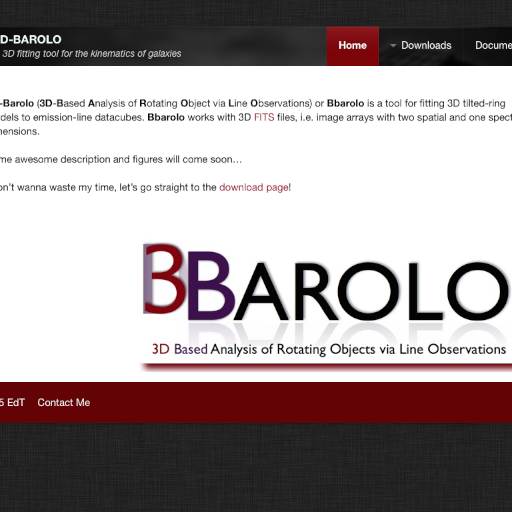
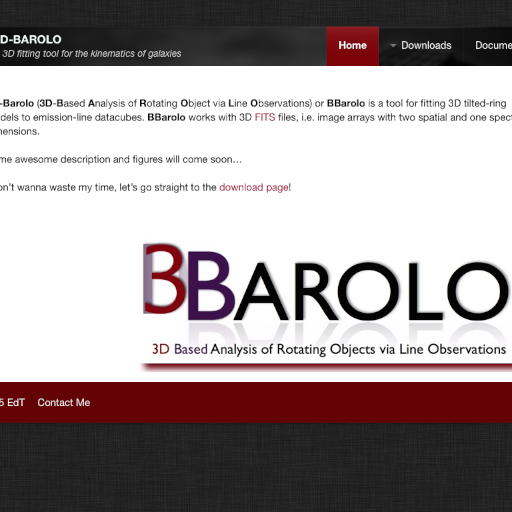
Bbarolo pages

Changed region(s): [[0.2812, 0.1875, 1.0, 0.25]]

diff --git a/documentation/index.html b/documentation/index.html
@@ -12,7 +12,7 @@
 		<meta name="generator" content="RapidWeaver" />
 		
 		<meta http-equiv="X-UA-Compatible" content="IE=edge,chrome=1">
-		<title>Barolo - Documentation</title>
+		<title>BBarolo - Documentation</title>
 		<link rel="stylesheet" type="text/css" media="all" href="../rw_common/themes/reason/consolidated.css" />
 		
 		
@@ -58,7 +58,7 @@
 				</div>
 				<section id="container" class="theme">
 					<section id="content" class="theme">
-						<div id="push">This page is still in progress&hellip;<br /><br />For a full description of the algorithm. please refer to <a href="http://arxiv.org/abs/1505.07834" rel="">this paper</a>.<br /><br />Running <strong>Bbarolo</strong> through the GUI allows the user to not learn the annoying list of available parameters: the user has just to fill in the required fields in the GUI and this will create a text file with the correct parameters and launch Bbarolo.<br />However, if you experience any issues with the GUI or you prefer to use the command line tool, in this page you can find a list with the default values and a short description of the main available parameters.<br /><br /><br /><strong>Bbarolo </strong>can be run by typing in the shell: <code>Bbarolo -p paramfile</code>. The <code>paramfile</code> is a text file with a list of all the needed parameters, in the form:<br /><br />PARNAME1	<span style="font:13px Menlo-Regular; color:#191919;">&nbsp </span>VALUE1<br />PARNAME2	<span style="font:13px Menlo-Regular; color:#191919;">&nbsp </span>VALUE2<br />&hellip;.<br />  <br />An example of parameter file can be downloaded <a href="../resources/param.par" rel="">here</a>.  Full runnable examples can be found in <a href="../downloads/examples/" rel="" title="Examples">this page</a>.<br /><br /><br /><br /><h3>General parameters</h3><br /><strong>FITSFILE</strong> [none]: The name of the input FITS file. This is a <u>mandatory</u> parameter.<br /><br /><strong>VERBOSE</strong> [true]: It enables all the output messages.<br /><br /><strong>BEAMFWHM</strong> [none]: The FWHM of the beam in arcsec. This parameter should be not used if the header of the input file is complete. In any case, the BEAMFWHM is ignored if Bbarolo finds the keywords BMAJ, BMIN and BPA in the header.<br /><br /><br /><br /><h3>3D Fitting parameters</h3><br /><strong>GALFIT</strong> [true]: This flag enables the 3D fitting algorithm.<br /><br /><strong>NRADII</strong> [none]: The number of rings to be used and fitted. If not specified, Bbarolo will try to estimate it.<br /><br /><strong>RADSEP</strong> [none]: The separation between rings in arcsec. If N radii have been requested, the rings will be placed at [RADSEP/4, RADSEP, 2*RADSEP,..., N*RADSEP]. If not specified, Bbarolo will assume the FWHM of the beam major axis as radius separation. <br /><br /><strong>RADII</strong> [none]: This parameter can be used as an alternative to NRADII and RADSEP. The user can provide a text file with a list of rings in arcsec, in the format "file(filename.txt,a,b)", where a is the column number (starting from 1), and b the starting row (all rows if omitted).<br /><br /><strong>XPOS</strong> [none]: Global initial value for the x-center of rings. Accepted format are in pixels (starting from 0, unlike GIPSY) or in WCS coordinates in the format +000.0000d (degrees) or +00:00:00.00 (sexagesimal). If not specified, Bbarolo will try to estimate it.<br /><br /><strong>YPOS</strong> [none]: Like XPOS, but for the y-axis.<br /><br /><strong>VSYS</strong> [none]: Global initial value for the systemic velocity in km/s. A text file with a list of values is also accepted (see RADII). If not specified, Bbarolo will try to estimate it from the global line profile.<br /><br /><strong>VROT</strong> [none]: Global initial value for the rotation velocity in km/s. A text file with a list of values is also accepted (see RADII). If not specified, Bbarolo will try to estimate it.<br /><br /><strong>VDISP</strong> [8]: Global initial value for the velocity dispersion in km/s. A text file with a list of values is also accepted (see RADII). If not specified, Bbarolo will assume 8 km/s.<br /><br /><strong>INC</strong> [none]: Global initial value for the inclination in degrees. A text file with a list of values is also accepted (see RADII). If not specified, Bbarolo will try to estimate it from the column density map.<br /><br /><strong>PA</strong> [none]: Global initial value for the position angle in degrees [0:360], measured from anti-clockwise form the North direction. A text file with a list of values is also accepted (see RADII). If not specified, Bbarolo will try to estimate it from the velocity field.<br /><br /><strong>Z0</strong> [none]: Global initial value for scale-height of the disc in arcsec. A text file with a list of values is also accepted (see RADII). If not specified, Bbarolo will assume 150 pc after having estimated the distance from the VSYS (or you can set the DISTANCE parameter).<br /><br /><strong>DENS</strong> [1]: Gas surface density in units of E20 atoms/cm2. A text file with a list of values is also accepted (see RADII). This parameter is not relevant if a normalization is used. <br /><br /><strong>DELTAINC</strong> [5]: This parameter fixes the boundaries of parameter space at [INC-DELTAINC, INC+DELTAINC]. It is not advisable to let the inclination varying over the whole range [0,90].<br /><br /><strong>DELTAPA</strong> [15]: This parameter fixes the boundaries of parameter space at [PA-DELTAINC, PA+DELTAPA]. It is not advisable to let the position angle varying over the whole range [0,360].<br /><br /><strong>FREE</strong> [VROT VDISP INC PA]: The list of parameters to fit.<br /><br /><strong>FTYPE</strong> [2]: Function to be minimized. Accepted values are: 1 (chi-squared), 2 (|mod-obs|, default), 3 (|mod-obs|/(mod+obs)).<br /><br /><strong>WFUNC</strong> [2]: Weighting function to be used in the fit. Accepted values are: 0 (uniform weight), 1 (|cos(&theta;)|) and 2 (cos(&theta;)^2, default), where &theta; is the azimuthal angle (=0 for galaxy major axis).<br /><br /><strong>LTYPE</strong> [1]: Layer type along z. Accepted values are: 1 (gaussian, default), 2 (sech2), 3 (exponential), 4 (Lorentzian), 5 (box).<br /><br /><strong>SIDE</strong> [B]: Side of the galaxy to be fitted. Accepted values are: A (approaching), R (receding), B (both, default)<br /><br /><strong>MASK</strong> [SMOOTH]: This parameter tells the code how to build the mask for constraining the regions of true galaxy emission. Accepted values are SMOOTH, SEARCH, THRESHOLD, NONE. If SMOOTH, the input cube is smoothed by a factor FACTOR (default=2) and mask built from the region at S/N>BLANKCUT (default=3). If SEARCH, the source finding will be used to determine the mask. The source finding parameters can be set to change the default values. If THRESHOLD, the cut threshold must be specified through the THRESHOLD parameter in the same flux units of the input datacube. If NONE, all regions with flux>0 will be used.<br /><br /><strong>NORM</strong> [LOCAL]: Type of normalization of the model. Accepted values are: LOCAL (pixel by pixel) or AZIM (azimuthal) or NONE.<br /><br /><strong>TWOSTAGE</strong> [true]: This flag enables the second fitting stage after parameter regularization. This is relevant just if the user wishes to fit parameters other than VROT and VDISP. The inclination and the position angle are regularized by polynomials of degree POLYN or a Bezier function (default), while the other parameters by constant functions.<br /><br /><strong>POLYN</strong> [-1]: Degree of polynomials for the regularization of inclination and position angles. -1 enables the Bezier function.<br /> <br /><strong>BWEIGHT</strong> [2]: Exponent of weight for blank pixels. See Sec. 2.4 of reference paper for details.<br /><br /><strong>FLAGERRORS</strong> [false]: Whether the code has to estimate the errors. This usually heavily slows down the run.<br /><br /><strong>STARTRAD</strong> [0]: This parameter allow the user to start the fit from the given ring.</div>
+						<div id="push">This page is still in progress&hellip;<br /><br />For a full description of the algorithm. please refer to <a href="http://arxiv.org/abs/1505.07834" rel="">this paper</a>.<br /><br />Running <strong>BBarolo</strong> through the GUI allows the user to not learn the annoying list of available parameters: the user has just to fill in the required fields in the GUI and this will create a text file with the correct parameters and launch BBarolo.<br />However, if you experience any issues with the GUI or you prefer to use the command line tool, in this page you can find a list with the default values and a short description of the main available parameters.<br /><br /><br /><strong>BBarolo </strong>can be run by typing in the shell: <code>Bbarolo -p paramfile</code>. The <code>paramfile</code> is a text file with a list of all the needed parameters, in the form:<br /><br />PARNAME1	<span style="font:13px Menlo-Regular; color:#191919;">&nbsp </span>VALUE1<br />PARNAME2	<span style="font:13px Menlo-Regular; color:#191919;">&nbsp </span>VALUE2<br />&hellip;.<br />  <br />An example of parameter file can be downloaded <a href="../resources/param.par" rel="">here</a>.  Full runnable examples can be found in <a href="../downloads/examples/" rel="" title="Examples">this page</a>.<br /><br /><br /><br /><h3>General parameters</h3><br /><strong>FITSFILE</strong> [none]: The name of the input FITS file. This is a <u>mandatory</u> parameter.<br /><br /><strong>VERBOSE</strong> [true]: It enables all the output messages.<br /><br /><strong>BEAMFWHM</strong> [none]: The FWHM of the beam in arcsec. This parameter should be not used if the header of the input file is complete. In any case, the BEAMFWHM is ignored if BBBBaroloarolo finds the keywords BMAJ, BMIN and BPA in the header.<br /><br /><br /><br /><h3>3D Fitting parameters</h3><br /><strong>GALFIT</strong> [true]: This flag enables the 3D fitting algorithm.<br /><br /><strong>NRADII</strong> [none]: The number of rings to be used and fitted. If not specified, BBarolo will try to estimate it.<br /><br /><strong>RADSEP</strong> [none]: The separation between rings in arcsec. If N radii have been requested, the rings will be placed at [RADSEP/4, RADSEP, 2*RADSEP,..., N*RADSEP]. If not specified, BBarolo will assume the FWHM of the beam major axis as radius separation. <br /><br /><strong>RADII</strong> [none]: This parameter can be used as an alternative to NRADII and RADSEP. The user can provide a text file with a list of rings in arcsec, in the format "file(filename.txt,a,b)", where a is the column number (starting from 1), and b the starting row (all rows if omitted).<br /><br /><strong>XPOS</strong> [none]: Global initial value for the x-center of rings. Accepted format are in pixels (starting from 0, unlike GIPSY) or in WCS coordinates in the format +000.0000d (degrees) or +00:00:00.00 (sexagesimal). If not specified, BBarolo will try to estimate it.<br /><br /><strong>YPOS</strong> [none]: Like XPOS, but for the y-axis.<br /><br /><strong>VSYS</strong> [none]: Global initial value for the systemic velocity in km/s. A text file with a list of values is also accepted (see RADII). If not specified, BBarolo will try to estimate it from the global line profile.<br /><br /><strong>VROT</strong> [none]: Global initial value for the rotation velocity in km/s. A text file with a list of values is also accepted (see RADII). If not specified, BBarolo will try to estimate it.<br /><br /><strong>VDISP</strong> [8]: Global initial value for the velocity dispersion in km/s. A text file with a list of values is also accepted (see RADII). If not specified, BBarolo will assume 8 km/s.<br /><br /><strong>INC</strong> [none]: Global initial value for the inclination in degrees. A text file with a list of values is also accepted (see RADII). If not specified, BBarolo will try to estimate it from the column density map.<br /><br /><strong>PA</strong> [none]: Global initial value for the position angle in degrees [0:360], measured from anti-clockwise form the North direction. A text file with a list of values is also accepted (see RADII). If not specified, BBarolo will try to estimate it from the velocity field.<br /><br /><strong>Z0</strong> [none]: Global initial value for scale-height of the disc in arcsec. A text file with a list of values is also accepted (see RADII). If not specified, BBarolo will assume 150 pc after having estimated the distance from the VSYS (or you can set the DISTANCE parameter).<br /><br /><strong>DENS</strong> [1]: Gas surface density in units of E20 atoms/cm2. A text file with a list of values is also accepted (see RADII). This parameter is not relevant if a normalization is used. <br /><br /><strong>DELTAINC</strong> [5]: This parameter fixes the boundaries of parameter space at [INC-DELTAINC, INC+DELTAINC]. It is not advisable to let the inclination varying over the whole range [0,90].<br /><br /><strong>DELTAPA</strong> [15]: This parameter fixes the boundaries of parameter space at [PA-DELTAINC, PA+DELTAPA]. It is not advisable to let the position angle varying over the whole range [0,360].<br /><br /><strong>FREE</strong> [VROT VDISP INC PA]: The list of parameters to fit.<br /><br /><strong>FTYPE</strong> [2]: Function to be minimized. Accepted values are: 1 (chi-squared), 2 (|mod-obs|, default), 3 (|mod-obs|/(mod+obs)).<br /><br /><strong>WFUNC</strong> [2]: Weighting function to be used in the fit. Accepted values are: 0 (uniform weight), 1 (|cos(&theta;)|) and 2 (cos(&theta;)^2, default), where &theta; is the azimuthal angle (=0 for galaxy major axis).<br /><br /><strong>LTYPE</strong> [1]: Layer type along z. Accepted values are: 1 (gaussian, default), 2 (sech2), 3 (exponential), 4 (Lorentzian), 5 (box).<br /><br /><strong>SIDE</strong> [B]: Side of the galaxy to be fitted. Accepted values are: A (approaching), R (receding), B (both, default)<br /><br /><strong>MASK</strong> [SMOOTH]: This parameter tells the code how to build the mask for constraining the regions of true galaxy emission. Accepted values are SMOOTH, SEARCH, THRESHOLD, NONE. If SMOOTH, the input cube is smoothed by a factor FACTOR (default=2) and mask built from the region at S/N>BLANKCUT (default=3). If SEARCH, the source finding will be used to determine the mask. The source finding parameters can be set to change the default values. If THRESHOLD, the cut threshold must be specified through the THRESHOLD parameter in the same flux units of the input datacube. If NONE, all regions with flux>0 will be used.<br /><br /><strong>NORM</strong> [LOCAL]: Type of normalization of the model. Accepted values are: LOCAL (pixel by pixel) or AZIM (azimuthal) or NONE.<br /><br /><strong>TWOSTAGE</strong> [true]: This flag enables the second fitting stage after parameter regularization. This is relevant just if the user wishes to fit parameters other than VROT and VDISP. The inclination and the position angle are regularized by polynomials of degree POLYN or a Bezier function (default), while the other parameters by constant functions.<br /><br /><strong>POLYN</strong> [-1]: Degree of polynomials for the regularization of inclination and position angles. -1 enables the Bezier function.<br /> <br /><strong>BWEIGHT</strong> [2]: Exponent of weight for blank pixels. See Sec. 2.4 of reference paper for details.<br /><br /><strong>FLAGERRORS</strong> [false]: Whether the code has to estimate the errors. This usually heavily slows down the run.<br /><br /><strong>STARTRAD</strong> [0]: This parameter allow the user to start the fit from the given ring.</div>
 					</section>
 					<aside class="theme">
 						<h2 id="sideTitle"></h2>

diff --git a/downloads/source/index.html b/downloads/source/index.html
@@ -12,7 +12,7 @@
 		<meta name="generator" content="RapidWeaver" />
 		
 		<meta http-equiv="X-UA-Compatible" content="IE=edge,chrome=1">
-		<title>Barolo - Download Source</title>
+		<title>BBarolo - Download Source</title>
 		<link rel="stylesheet" type="text/css" media="all" href="../../rw_common/themes/reason/consolidated.css" />
 		
 		
@@ -58,7 +58,7 @@
 				</div>
 				<section id="container" class="theme">
 					<section id="content" class="theme">
-						<div id="push"><h2>Building from the source</h2><span style="color:#2F554F;"><br /></span><br /><h3>Requisites</h3><br /><strong>Bbarolo</strong> compiles and runs on Unix machines. It needs:<br /><br />-   C++ compiler, like the <a href="https://gcc.gnu.org/">GNU</a> compiler (better if > 4.2).<br />-   <a href="http://heasarc.gsfc.nasa.gov/fitsio/">CFITSIO</a> library.<br />-   <a href="http://www.fftw.org/">FFTW</a> library.<br />-  <a href="http://www.atnf.csiro.au/people/mcalabre/WCS/" rel=""> WCS</a> library.<br />-  <a href="http://www.qt.io/developers/" rel="">QT toolkit</a> (> 4.0), only you would like to use the GUI.<br />-  <a href="http://www.gnuplot.info/" rel="">Gnuplot</a> and <a href="https://www.python.org/ " rel="">Python</a> (> 2.6) with the <a href="http://www.astropy.org/" rel="">Astropy</a> package. <br /><br />Most of these libraries and packages should already be installed on scientific machines. Otherwise, you can easily install them through the terminal commands of the various package managers, i.e. <code>apt-get</code> on Ubuntu-based, <code>pacman</code> on Arch-based, <code>yum</code> on RPM-based distros, <code>brew</code> or <code>port</code> on Mac OS X. Note that the QT toolkit is only needed to compile the GUI, which is not mandatory. Gnuplot and Python are not needed to successfully compile the code, but without them <strong>Bbarolo </strong>will not produce any outputs. <br /><br /><br /><br /><h3>Installation</h3><br /><br />1) Download either the <a href="https://github.com/editeodoro/Bbarolo/archive/1.0.zip" rel="">.zip</a> or the <a href="https://github.com/editeodoro/Bbarolo/archive/1.0.tar.gz" rel="">.tar</a> source file.<br /><br />2) Uncompress it (<code>unzip *filename*.zip</code> &nbsp or &nbsp <code>tar -xvzf *filename*.tar</code>) and enter the <strong>Bbarolo</strong> directory in a terminal prompt.<br /><br />3) Launch the autoconfigure script (<code>./configure</code>). If the script is not executable: <code>chmod +x configure</code>. If there are any errors, follow the suggestions given by the script for manually set the path of libraries.<br /><br />4) Compile the source by typing &nbsp <code>make</code>.<br /><br />5) <u>Optional</u>: Compile the GUI by typing &nbsp <code>make gui</code><br /><br />6) <u>Optional</u>: Clean up the unnecessary files (<code>make clean</code>).<br /><br /><br /></div>
+						<div id="push"><h2>Building from the source</h2><span style="color:#2F554F;"><br /></span><br /><h3>Requisites</h3><br /><strong>BBarolo</strong> compiles and runs on Unix machines. It needs:<br /><br />-   C++ compiler, like the <a href="https://gcc.gnu.org/">GNU</a> compiler (better if > 4.2).<br />-   <a href="http://heasarc.gsfc.nasa.gov/fitsio/">CFITSIO</a> library.<br />-   <a href="http://www.fftw.org/">FFTW</a> library.<br />-  <a href="http://www.atnf.csiro.au/people/mcalabre/WCS/" rel=""> WCS</a> library.<br />-  <a href="http://www.qt.io/developers/" rel="">QT toolkit</a> (> 4.0), only you would like to use the GUI.<br />-  <a href="http://www.gnuplot.info/" rel="">Gnuplot</a> and <a href="https://www.python.org/ " rel="">Python</a> (> 2.6) with the <a href="http://www.astropy.org/" rel="">Astropy</a> package. <br /><br />Most of these libraries and packages should already be installed on scientific machines. Otherwise, you can easily install them through the terminal commands of the various package managers, i.e. <code>apt-get</code> on Ubuntu-based, <code>pacman</code> on Arch-based, <code>yum</code> on RPM-based distros, <code>brew</code> or <code>port</code> on Mac OS X. Note that the QT toolkit is only needed to compile the GUI, which is not mandatory. Gnuplot and Python are not needed to successfully compile the code, but without them <strong>BBarolo </strong>will not produce any outputs. <br /><br /><br /><br /><h3>Installation</h3><br /><br />1) Download either the <a href="https://github.com/editeodoro/Bbarolo/archive/1.0.zip" rel="">.zip</a> or the <a href="https://github.com/editeodoro/Bbarolo/archive/1.0.tar.gz" rel="">.tar</a> source file.<br /><br />2) Uncompress it (<code>unzip *filename*.zip</code> &nbsp or &nbsp <code>tar -xvzf *filename*.tar</code>) and enter the <strong>BBarolo</strong> directory in a terminal prompt.<br /><br />3) Launch the autoconfigure script (<code>./configure</code>). If the script is not executable: <code>chmod +x configure</code>. If there are any errors, follow the suggestions given by the script for manually set the path of libraries.<br /><br />4) Compile the source by typing &nbsp <code>make</code>.<br /><br />5) <u>Optional</u>: Compile the GUI by typing &nbsp <code>make gui</code><br /><br />6) <u>Optional</u>: Clean up the unnecessary files (<code>make clean</code>).<br /><br /><br /></div>
 					</section>
 					<aside class="theme">
 						<h2 id="sideTitle"></h2>

diff --git a/BBAROLO.rw6/QuickLook/Preview.html b/BBAROLO.rw6/QuickLook/Preview.html
@@ -12,7 +12,7 @@
 		<meta name="generator" content="RapidWeaver" />
 		
 		<meta http-equiv="X-UA-Compatible" content="IE=edge,chrome=1">
-		<title>Barolo - Home</title>
+		<title>BBarolo - Home</title>
 		<link rel="stylesheet" type="text/css" media="all" href="rw_common/themes/reason/consolidated.css" />
 		
 		
@@ -58,7 +58,7 @@
 				</div>
 				<section id="container" class="theme">
 					<section id="content" class="theme">
-						<div id="push"><span style="color:#000000;font-weight:bold; ">3D-Barolo</span><span style="color:#000000;"> (</span><span style="color:#000000;font-weight:bold; ">3D</span><span style="color:#000000;">-</span><span style="color:#000000;font-weight:bold; ">B</span><span style="color:#000000;">ased </span><span style="color:#000000;font-weight:bold; ">A</span><span style="color:#000000;">nalysis of </span><span style="color:#000000;font-weight:bold; ">R</span><span style="color:#000000;">otating </span><span style="color:#000000;font-weight:bold; ">O</span><span style="color:#000000;">bject via </span><span style="color:#000000;font-weight:bold; ">L</span><span style="color:#000000;">ine </span><span style="color:#000000;font-weight:bold; ">O</span><span style="color:#000000;">bservations) or </span><span style="color:#000000;font-weight:bold; ">Bbarolo</span><span style="color:#000000;"> is a tool for fitting 3D tilted-ring models to emission-line datacubes. </span><span style="color:#000000;font-weight:bold; ">Bbarolo</span><span style="color:#000000;"> works with 3D <a href="http://fits.gsfc.nasa.gov/">FITS</a> files, i.e. image arrays with two spatial and one spectral dimensions.<br /><br />Some awesome description and figures will come soon&hellip; <br /><br />I don&rsquo;t wanna waste my time, let&rsquo;s go straight to the </span><span style="color:#000000;"><a href="downloads/" rel="" title="Downloads">download page</a></span><span style="color:#000000;">!<br /><br /><br /><br /></span><div class="image-right"><img class="imageStyle" alt="bbarolo" src="files/bbarolo.jpg" width="575" height="199" /></div></div>
+						<div id="push"><span style="color:#000000;font-weight:bold; ">3D-Barolo</span><span style="color:#000000;"> (</span><span style="color:#000000;font-weight:bold; ">3D</span><span style="color:#000000;">-</span><span style="color:#000000;font-weight:bold; ">B</span><span style="color:#000000;">ased </span><span style="color:#000000;font-weight:bold; ">A</span><span style="color:#000000;">nalysis of </span><span style="color:#000000;font-weight:bold; ">R</span><span style="color:#000000;">otating </span><span style="color:#000000;font-weight:bold; ">O</span><span style="color:#000000;">bject via </span><span style="color:#000000;font-weight:bold; ">L</span><span style="color:#000000;">ine </span><span style="color:#000000;font-weight:bold; ">O</span><span style="color:#000000;">bservations) or </span><span style="color:#000000;font-weight:bold; ">BBarolo</span><span style="color:#000000;"> is a tool for fitting 3D tilted-ring models to emission-line datacubes. </span><span style="color:#000000;font-weight:bold; ">BBarolo</span><span style="color:#000000;"> works with 3D <a href="http://fits.gsfc.nasa.gov/">FITS</a> files, i.e. image arrays with two spatial and one spectral dimensions.<br /><br />Some awesome description and figures will come soon&hellip; <br /><br />I don&rsquo;t wanna waste my time, let&rsquo;s go straight to the </span><span style="color:#000000;"><a href="downloads/" rel="" title="Downloads">download page</a></span><span style="color:#000000;">!<br /><br /><br /><br /></span><div class="image-right"><img class="imageStyle" alt="bbarolo" src="files/bbarolo.jpg" width="575" height="199" /></div></div>
 					</section>
 					<aside class="theme">
 						<h2 id="sideTitle"></h2>

diff --git a/index.html b/index.html
@@ -12,7 +12,7 @@
 		<meta name="generator" content="RapidWeaver" />
 		
 		<meta http-equiv="X-UA-Compatible" content="IE=edge,chrome=1">
-		<title>Barolo - Home</title>
+		<title>BBarolo - Home</title>
 		<link rel="stylesheet" type="text/css" media="all" href="rw_common/themes/reason/consolidated.css" />
 		
 		
@@ -58,7 +58,7 @@
 				</div>
 				<section id="container" class="theme">
 					<section id="content" class="theme">
-						<div id="push"><span style="color:#000000;font-weight:bold; ">3D-Barolo</span><span style="color:#000000;"> (</span><span style="color:#000000;font-weight:bold; ">3D</span><span style="color:#000000;">-</span><span style="color:#000000;font-weight:bold; ">B</span><span style="color:#000000;">ased </span><span style="color:#000000;font-weight:bold; ">A</span><span style="color:#000000;">nalysis of </span><span style="color:#000000;font-weight:bold; ">R</span><span style="color:#000000;">otating </span><span style="color:#000000;font-weight:bold; ">O</span><span style="color:#000000;">bject via </span><span style="color:#000000;font-weight:bold; ">L</span><span style="color:#000000;">ine </span><span style="color:#000000;font-weight:bold; ">O</span><span style="color:#000000;">bservations) or </span><span style="color:#000000;font-weight:bold; ">Bbarolo</span><span style="color:#000000;"> is a tool for fitting 3D tilted-ring models to emission-line datacubes. </span><span style="color:#000000;font-weight:bold; ">Bbarolo</span><span style="color:#000000;"> works with 3D <a href="http://fits.gsfc.nasa.gov/">FITS</a> files, i.e. image arrays with two spatial and one spectral dimensions.<br /><br />Some awesome description and figures will come soon&hellip; <br /><br />I don&rsquo;t wanna waste my time, let&rsquo;s go straight to the </span><span style="color:#000000;"><a href="downloads/" rel="" title="Downloads">download page</a></span><span style="color:#000000;">!<br /><br /><br /><br /></span><div class="image-right"><img class="imageStyle" alt="bbarolo" src="files/bbarolo.jpg" width="575" height="199" /></div></div>
+						<div id="push"><span style="color:#000000;font-weight:bold; ">3D-Barolo</span><span style="color:#000000;"> (</span><span style="color:#000000;font-weight:bold; ">3D</span><span style="color:#000000;">-</span><span style="color:#000000;font-weight:bold; ">B</span><span style="color:#000000;">ased </span><span style="color:#000000;font-weight:bold; ">A</span><span style="color:#000000;">nalysis of </span><span style="color:#000000;font-weight:bold; ">R</span><span style="color:#000000;">otating </span><span style="color:#000000;font-weight:bold; ">O</span><span style="color:#000000;">bject via </span><span style="color:#000000;font-weight:bold; ">L</span><span style="color:#000000;">ine </span><span style="color:#000000;font-weight:bold; ">O</span><span style="color:#000000;">bservations) or </span><span style="color:#000000;font-weight:bold; ">BBarolo</span><span style="color:#000000;"> is a tool for fitting 3D tilted-ring models to emission-line datacubes. </span><span style="color:#000000;font-weight:bold; ">BBarolo</span><span style="color:#000000;"> works with 3D <a href="http://fits.gsfc.nasa.gov/">FITS</a> files, i.e. image arrays with two spatial and one spectral dimensions.<br /><br />Some awesome description and figures will come soon&hellip; <br /><br />I don&rsquo;t wanna waste my time, let&rsquo;s go straight to the </span><span style="color:#000000;"><a href="downloads/" rel="" title="Downloads">download page</a></span><span style="color:#000000;">!<br /><br /><br /><br /></span><div class="image-right"><img class="imageStyle" alt="bbarolo" src="files/bbarolo.jpg" width="575" height="199" /></div></div>
 					</section>
 					<aside class="theme">
 						<h2 id="sideTitle"></h2>

diff --git a/downloads/index.html b/downloads/index.html
@@ -12,7 +12,7 @@
 		<meta name="generator" content="RapidWeaver" />
 		
 		<meta http-equiv="X-UA-Compatible" content="IE=edge,chrome=1">
-		<title>Barolo - Downloads</title>
+		<title>BBarolo - Downloads</title>
 		<link rel="stylesheet" type="text/css" media="all" href="../rw_common/themes/reason/consolidated.css" />
 		
 		
@@ -58,7 +58,7 @@
 				</div>
 				<section id="container" class="theme">
 					<section id="content" class="theme">
-						<div id="push"><br /><strong>Bbarolo </strong>is available for Mac OS X and Linux platforms. The code run as a command line program, but we have also implemented a simple Graphical User Interface (GUI) as a front-end for the input parameters. <br /><br />For downloading the pre-compiled binaries click <a href="../downloads/binaries/" rel="" title="Binaries">here</a> (additional libraries not needed, but still need Gnuplot and Astropy for the output plots).<br /><br />For compiling <strong>Bbarolo</strong> from the source, click <a href="../downloads/source/" rel="" title="Source">here</a>.<br /><br />Examples can be found <a href="../downloads/examples/" rel="" title="Examples">here</a>. <br /><br /><br /><u>NOTE:</u> <strong>Bbarolo</strong> needs writing permissions to run, thus do not put the executable in root directories!</div>
+						<div id="push"><br /><strong>BBarolo </strong>is available for Mac OS X and Linux platforms. The code run as a command line program, but we have also implemented a simple Graphical User Interface (GUI) as a front-end for the input parameters. <br /><br />For downloading the pre-compiled binaries click <a href="../downloads/binaries/" rel="" title="Binaries">here</a> (additional libraries not needed, but still need Gnuplot and Astropy for the output plots).<br /><br />For compiling <strong>BBarolo</strong> from the source, click <a href="../downloads/source/" rel="" title="Source">here</a>.<br /><br />Examples can be found <a href="../downloads/examples/" rel="" title="Examples">here</a>. <br /><br /><br /><u>NOTE:</u> <strong>BBarolo</strong> needs writing permissions to run, thus do not put the executable in root directories!</div>
 					</section>
 					<aside class="theme">
 						<h2 id="sideTitle"></h2>

diff --git a/downloads/binaries/index.html b/downloads/binaries/index.html
@@ -12,7 +12,7 @@
 		<meta name="generator" content="RapidWeaver" />
 		
 		<meta http-equiv="X-UA-Compatible" content="IE=edge,chrome=1">
-		<title>Barolo - Downloads Binaries</title>
+		<title>BBarolo - Downloads Binaries</title>
 		<link rel="stylesheet" type="text/css" media="all" href="../../rw_common/themes/reason/consolidated.css" />
 		
 		
@@ -58,7 +58,7 @@
 				</div>
 				<section id="container" class="theme">
 					<section id="content" class="theme">
-						<div id="push"><div class="filesharing-description"><h2>Download the binaries</h2><br />Here you can download the pre-compiled binaries of latest <strong>Bbarolo </strong>version. <br />Downloads includes both the GUI (experimental) and the Command Line executable. For the Mac application, the latter can be found in the package contents.<br /><br /><u>NOTE</u>: Although all the required libraries are already in the binaries, you still need to have installed Gnuplot and Python with Astropy (> 1.0) to get all the outputs.<br /><br /><br /></div><div class="filesharing-item">
+						<div id="push"><div class="filesharing-description"><h2>Download the binaries</h2><br />Here you can download the pre-compiled binaries of latest <strong>BBarolo </strong>version. <br />Downloads includes both the GUI (experimental) and the Command Line executable. For the Mac application, the latter can be found in the package contents.<br /><br /><u>NOTE</u>: Although all the required libraries are already in the binaries, you still need to have installed Gnuplot and Python with Astropy (> 1.0) to get all the outputs.<br /><br /><br /></div><div class="filesharing-item">
 <div class="filesharing-item-title">
 <a href="https://github.com/editeodoro/Bbarolo/releases/download/1.0/Bbarolo_MacOS_Lion.zip">Mac OS X 10.7 and later</a>
 </div>

diff --git a/downloads/examples/index.html b/downloads/examples/index.html
@@ -12,7 +12,7 @@
 		<meta name="generator" content="RapidWeaver" />
 		
 		<meta http-equiv="X-UA-Compatible" content="IE=edge,chrome=1">
-		<title>Barolo - Download Examples</title>
+		<title>BBarolo - Download Examples</title>
 		<link rel="stylesheet" type="text/css" media="all" href="../../rw_common/themes/reason/consolidated.css" />
 		
 		
@@ -58,7 +58,7 @@
 				</div>
 				<section id="container" class="theme">
 					<section id="content" class="theme">
-						<div id="push">A couple of examples can be downloaded from <a href="https://github.com/editeodoro/Bbarolo/releases/download/1.0/examples.zip" rel="">here</a>.<br /><br />After having decompressed the archive, you can load the *.par files in the GUI and run <strong>Bbarolo</strong>. <br />Otherwise, from the command line you can run the examples through:<br /><br /><code>> Bbarolo -p examples/n2403.par</code> </div>
+						<div id="push">A couple of examples can be downloaded from <a href="https://github.com/editeodoro/Bbarolo/releases/download/1.0/examples.zip" rel="">here</a>.<br /><br />After having decompressed the archive, you can load the *.par files in the GUI and run <strong>BBarolo</strong>. <br />Otherwise, from the command line you can run the examples through:<br /><br /><code>> Bbarolo -p examples/n2403.par</code> <br /><br />The data cube of NGC2403 is from <a href="http://adsabs.harvard.edu/abs/2004A%26A...424..485F" rel="">Fraternali et al. 2004</a>.</div>
 					</section>
 					<aside class="theme">
 						<h2 id="sideTitle"></h2>
